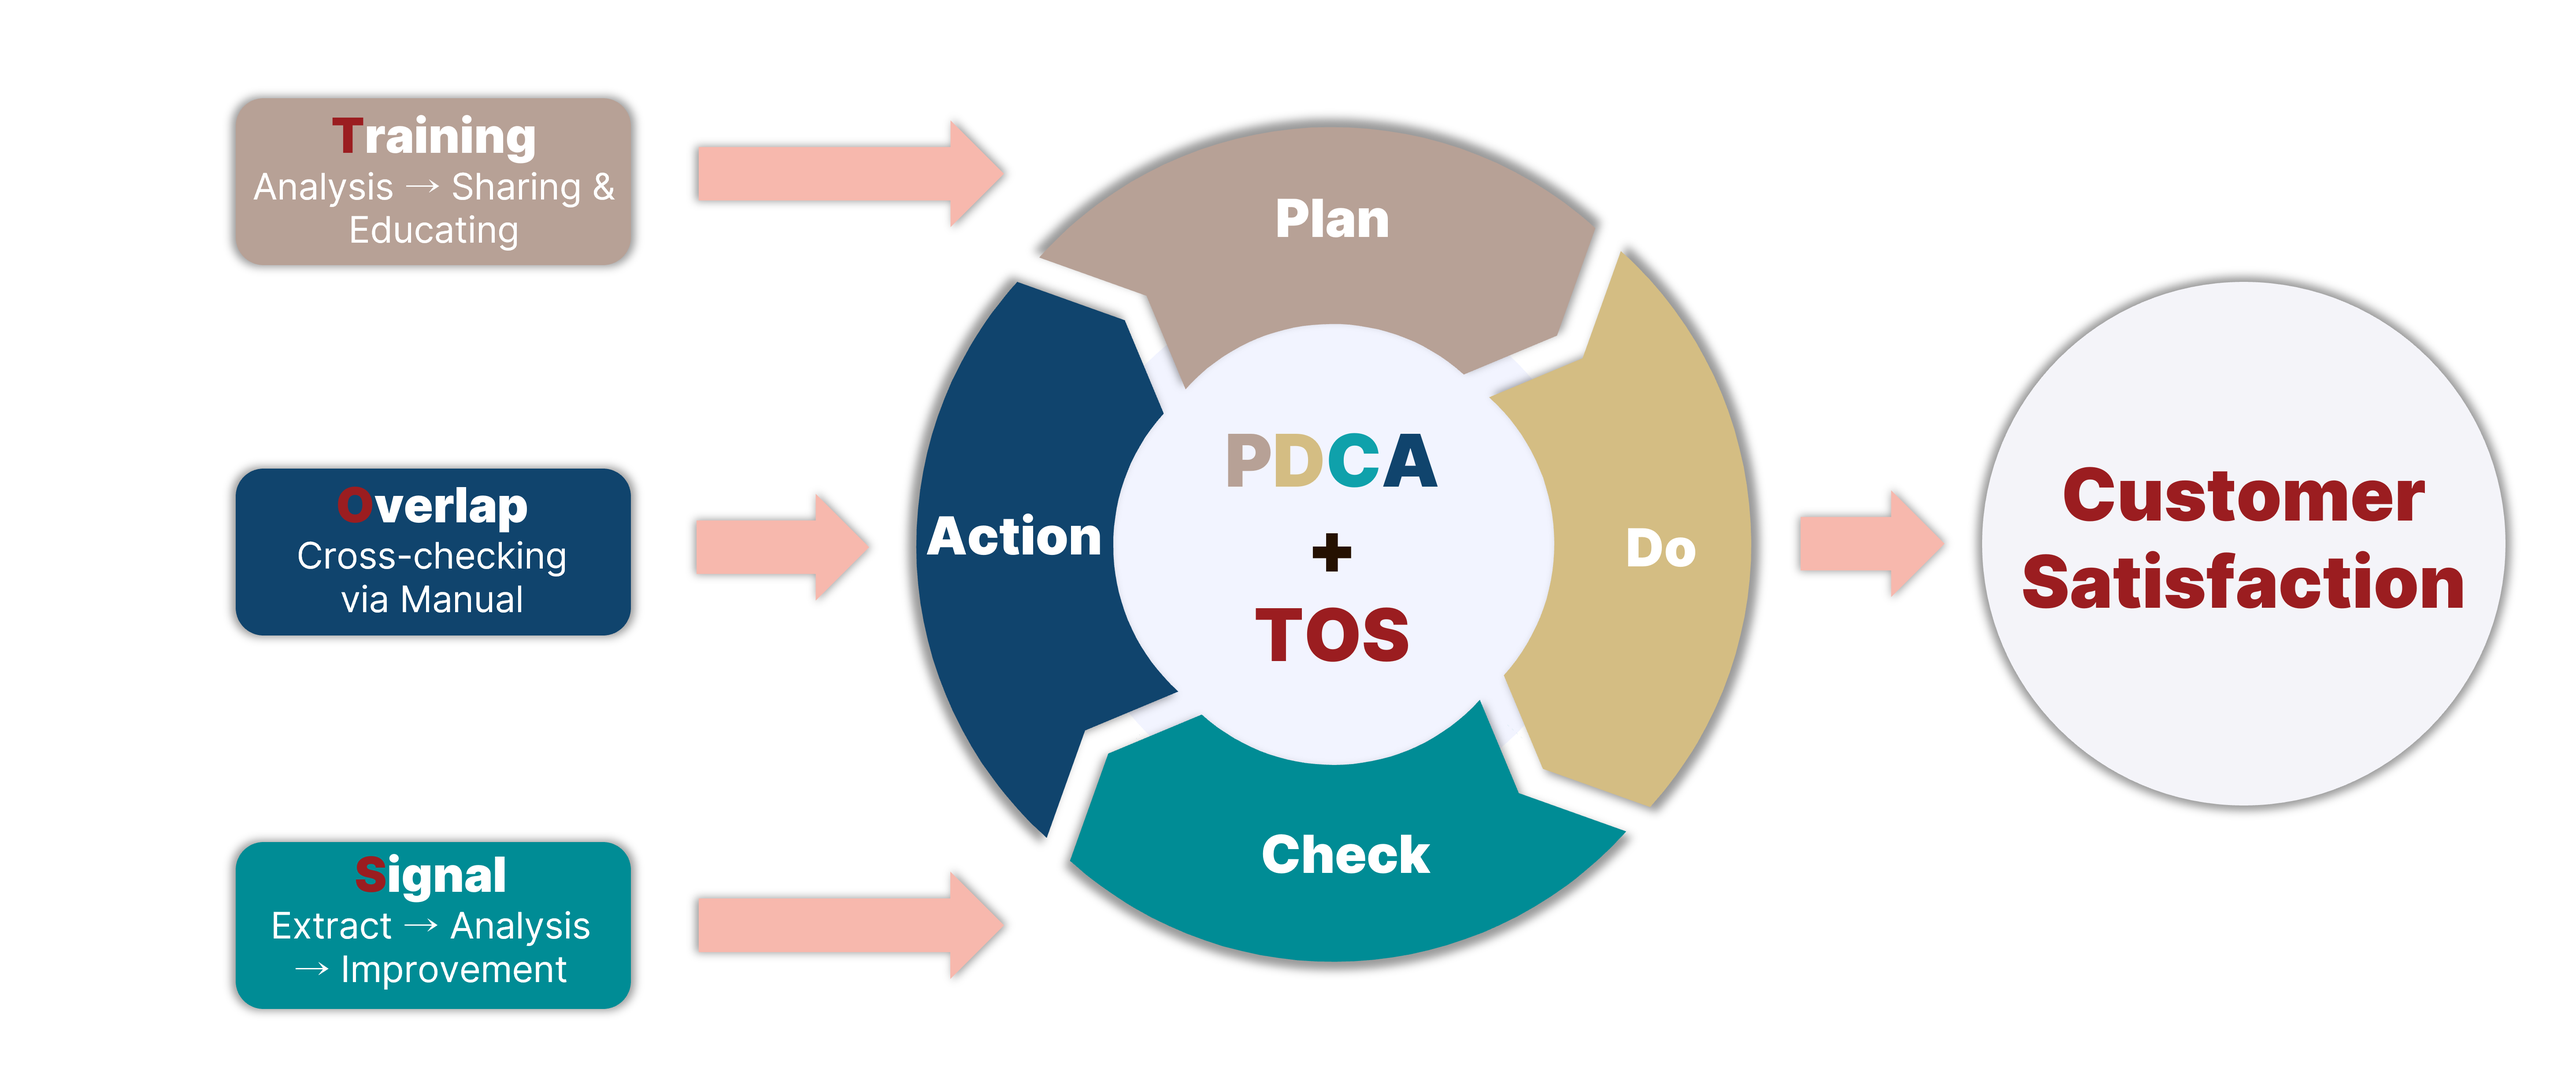
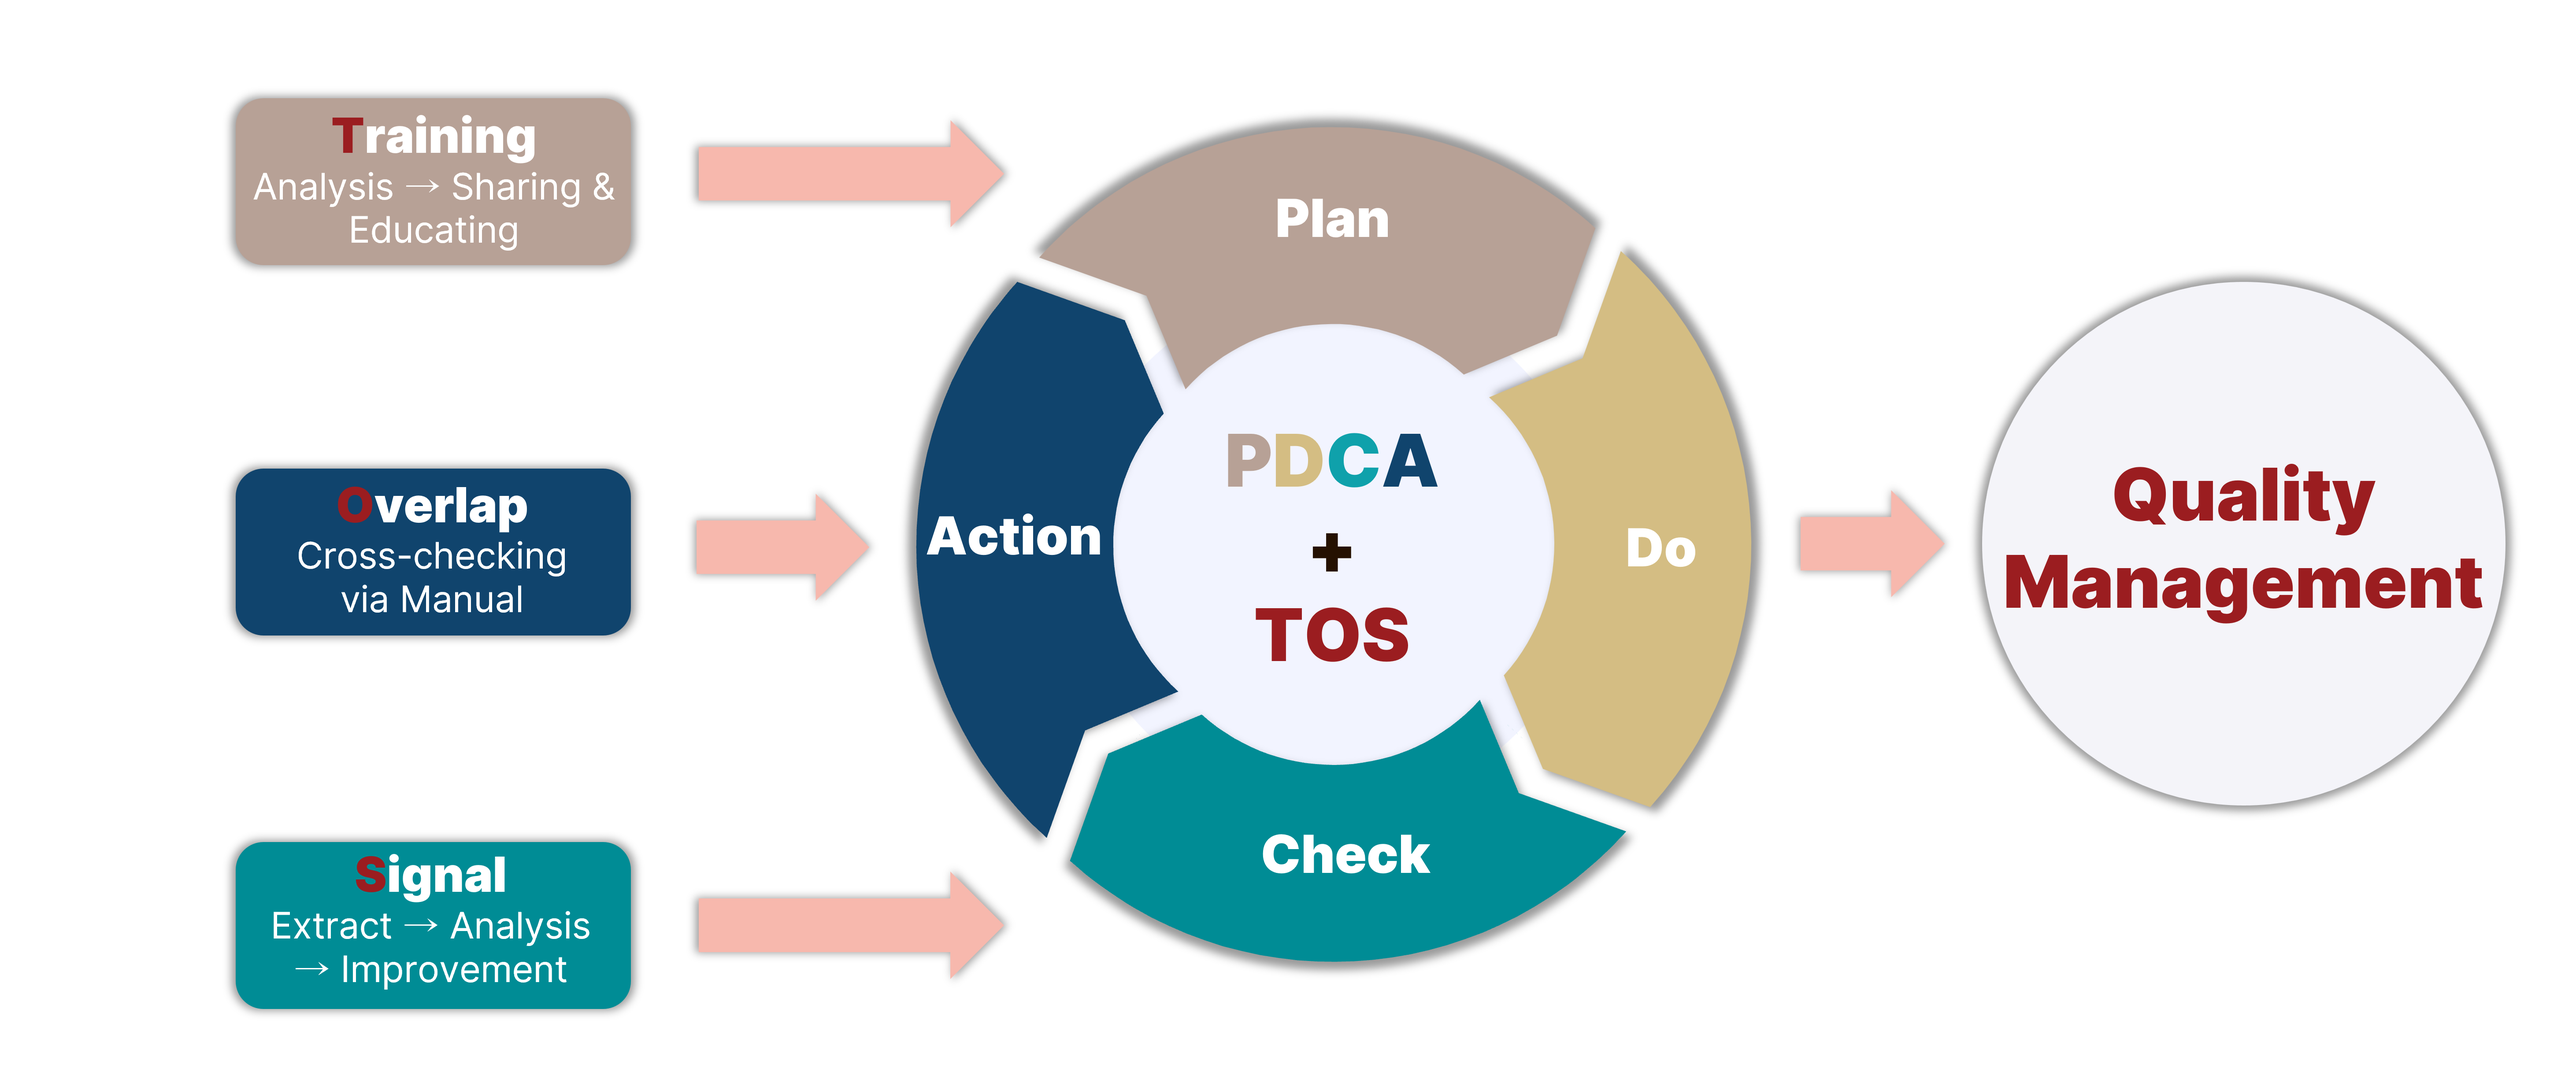
On branch 8/6-수정  Your branch is up to date with 'origin/8/6-수�'.
* portfolio composable에 추가
 * 포트폴리오 데이터 적용
 * 포트폴리오 내용 수정
 * management 삭제
 * pdca 이미지 수정
 * qhse 에 기존 management 에 있던 내용 추가

 Changes to be committed:
	modified:   components/landing/featured.vue
	modified:   composables/nav.ts
	new file:   composables/portfolio.ts
	deleted:    pages/commitments/management.vue
	modified:   pages/commitments/qhse.vue
	modified:   pages/projects/portfolio.vue
	modified:   public/img/pdca.png

Changed region(s): [[0.7782, 0.4044, 0.9649, 0.5911]]

diff --git a/components/landing/featured.vue b/components/landing/featured.vue
@@ -2,80 +2,12 @@
 import { Scrollbar } from "swiper"
 import { useUiStore } from "~/stores/ui"
 
+const projects = useProjects()
+
+
 const store = useUiStore()
 
-const slideList = [
-  // 슬라이드 아이템
-  // { title: 'LG Display - South Korea', src: 'https://placehold.co/1920x1080' },
-  // { title: 'LG Display - Vietnam', src: 'https://placehold.co/1440x900' },
-  // { title: 'LG Innotek - South Korea', src: 'https://placehold.co/1280x1024' },
-  // { title: 'SK Hynix - South Korea', src: 'https://placehold.co/1024x768' },
-  // { title: 'LG Display - South Korea', src: 'https://placehold.co/1920x1080' },
-  // { title: 'LG Display - Vietnam', src: 'https://placehold.co/1440x900' },
-  // { title: 'LG Innotek - South Korea', src: 'https://placehold.co/1280x1024' },
-  // { title: 'SK Hynix - South Korea', src: 'https://placehold.co/1024x768' },
-  // 여기부터 진짜 나와야 하는 Items들. 해외 우선, 이후 최근년도순
-  {
-    title: "LG Display – H1,2 Project",
-    src: "/img/featured_1.jpg",
-    content:
-      "<span>Classification: EPC</span> <span>Location: Haiphong, Vietnam</span>  <span>Construction Period: 2018~2019</span>",
-  },
-  {
-    title: "LG Electronics",
-    src: "/img/featured_4.jpg",
-    content:
-      "<span>Classification: EPC</span> <span>Location: Incheon, South Korea</span> <span>Construction Period: 2017~2023</span>",
-  },
-  {
-    title: "LG Display - P8 & 9 Project",
-    src: "/img/featured_9.jpg",
-    content:
-      "<span>Classification: EPC</span> <span>Location: Paju, South Korea</span> <span>Construction Period: 2016~2022</span>",
-  },
-  {
-    title: "LG Display - P10 Project",
-    src: "/img/featured_10.jpg",
-    content:
-      "<span>Classification: EPC</span> <span>Location: Paju, South Korea</span> <span>Construction Period: 2017~2021</span>",
-  },
-  {
-    title: "LG Household & Health Care",
-    src: "/img/featured_2.png",
-    content:
-      "<span>Classification: EPC</span> <span>Location: Buyeo, South Korea</span> <span>Construction Period: 2018~2020</span>",
-  },
-  {
-    title: "LG Household & Health Care",
-    src: "/img/featured_3.png",
-    content:
-      "<span>Classification: EPC</span> <span>Location: Cheongju, South Korea</span> <span>Construction Period: 2017~2020</span>",
-  },
-  {
-    title: "LG Display - M2 Project",
-    src: "/img/featured_8.jpg",
-    content:
-      "<span>Classification: EPC</span> <span>Location: Paju, South Korea</span> <span>Construction Period: 2013, 2016~2017</span>",
-  },
-  {
-    title: "LG Innotek",
-    src: "/img/featured_5.jpg",
-    content:
-      "<span>Classification: EPC</span> <span>Location: Gumi, South Korea</span> <span>Construction Period: 2012~2014</span>",
-  },
-  {
-    title: "LG Display - CAPA UP Project",
-    src: "/img/featured_7.jpg",
-    content:
-      "<span>Classification: EPC</span> <span>Location: Gumi, South Korea</span> <span>Construction Period: 2012~2013</span>",
-  },
-  {
-    title: "LG Display - M5 Project",
-    src: "/img/featured_6.jpg",
-    content:
-      "<span>Classification: EPC</span> <span>Location: Gumi, South Korea</span> <span>Construction Period: 2011~2012</span>",
-  },
-]
+
 </script>
 
 <template>
@@ -159,7 +91,7 @@ const slideList = [
           el: '.swiper-scrollbar',
         }"
       >
-        <SwiperSlide v-for="slide in slideList" class="h-auto mb-10">
+        <SwiperSlide v-for="slide in projects" class="h-auto mb-10">
           <a
             class="block h-full group transition-all duration-500 ease-in-out"
             href="/projects/portfolio"

diff --git a/composables/portfolio.ts b/composables/portfolio.ts
@@ -1,0 +1,77 @@
+
+const projects = [
+    {
+        title: "LG Display – H1,2 Project",
+        src: "/img/featured_1.jpg",
+        status : 'complete',
+        content:
+            "<span>Classification:</span> <span>Location: Haiphong, Vietnam</span>  <span>Construction Period: 2018~2019</span>",
+    },
+    {
+        title: "LG Electronics",
+        src: "/img/featured_4.jpg",
+        status : 'ongoing',
+        content:
+            "<span>Classification:</span> <span>Location: Incheon, South Korea</span> <span>Construction Period: 2017~2023</span>",
+    },
+    {
+        title: "LG Display - P8 & 9 Project",
+        src: "/img/featured_9.jpg",
+        status : 'complete',
+        content:
+            "<span>Classification:</span> <span>Location: Paju, South Korea</span> <span>Construction Period: 2016~2022</span>",
+    },
+    {
+        title: "LG Display - P10 Project",
+        src: "/img/featured_10.jpg",
+        status : 'ongoing',
+        content:
+            "<span>Classification:</span> <span>Location: Paju, South Korea</span> <span>Construction Period: 2017~2021</span>",
+    },
+    {
+        title: "LG Household & Health Care",
+        src: "/img/featured_2.png",
+        status : 'complete',
+        content:
+            "<span>Classification:</span> <span>Location: Buyeo, South Korea</span> <span>Construction Period: 2018~2020</span>",
+    },
+    {
+        title: "LG Household & Health Care",
+        src: "/img/featured_3.png",
+        status : 'complete',
+        content:
+            "<span>Classification:</span> <span>Location: Cheongju, South Korea</span> <span>Construction Period: 2017~2020</span>",
+    },
+    {
+        title: "LG Display - M2 Project",
+        src: "/img/featured_8.jpg",
+        status : 'complete',
+        content:
+            "<span>Classification:</span> <span>Location: Paju, South Korea</span> <span>Construction Period: 2013, 2016~2017</span>",
+    },
+    {
+        title: "LG Innotek",
+        src: "/img/featured_5.jpg",
+        status : 'complete',
+        content:
+            "<span>Classification:</span> <span>Location: Gumi, South Korea</span> <span>Construction Period: 2012~2014</span>",
+    },
+    {
+        title: "LG Display - CAPA UP Project",
+        src: "/img/featured_7.jpg",
+        status : 'complete',
+        content:
+            "<span>Classification:</span> <span>Location: Gumi, South Korea</span> <span>Construction Period: 2012~2013</span>",
+    },
+    {
+        title: "LG Display - M5 Project",
+        src: "/img/featured_6.jpg",
+        status : 'complete',
+        content:
+            "<span>Classification:</span> <span>Location: Gumi, South Korea</span> <span>Construction Period: 2011~2012</span>",
+    },
+]
+
+export const useProjects = () => {
+    return projects
+}

diff --git a/pages/projects/portfolio.vue b/pages/projects/portfolio.vue
@@ -7,24 +7,25 @@ defineProps({
   },
 })
 
+const projects = useProjects();
+
+const ongoings = computed(() => {
+  return projects.filter((project) => project.status === "ongoing");
+});
+
+const completes = computed(() => {
+  return projects .filter((project) => project.status !== "ongoing");
+});
+
+
 const data = {
   ongoing: {
     title: 'ongoing',
-    datas: [
-      {
-        title: 'ongoing title',
-        imageSrc: '/img/mission.jpg',
-      },
-    ],
+    datas: ongoings,
   },
   complete: {
     title: 'complete',
-    datas: [
-      {
-        title: 'complete title',
-        imageSrc: '/img/mission.jpg',
-      },
-    ],
+    datas: completes
   },
 } as any
 
@@ -34,7 +35,17 @@ const currentTab = ref(data.ongoing) // 선택될 박스
 
 const handleClick = (event: MouseEvent) => {
   const target = event.target as HTMLButtonElement
+  if (target.value === currentTab.value.title) return
+  content.value.style.transition = 'none'
+  content.value.style.opacity = '0'
+  content.value.classList.remove('pages-fade-done')
+  content.value.classList.add('pages-fade-left')
   currentTab.value = data[target.value]
+  setTimeout(() => {
+    content.value.style.opacity = '1'
+    content.value.style.transition = 'all 1s ease-in-out'
+    content.value.classList.remove('pages-fade-left')
+  }, 300)
 }
 </script>
 
@@ -94,7 +105,7 @@ const handleClick = (event: MouseEvent) => {
       "
     >
       <ul
-        class="container my-20 grid xl:grid-cols-4 grid-cols-1 sm:grid-cols-2 lg:grid-cols-3 gap-x-10 gap-y-5"
+        class="container my-20 grid xl:grid-cols-4 grid-cols-1 sm:grid-cols-2 lg:grid-cols-3 gap-x-10 gap-y-52 sm:gap-y-32 "
       >
         <li
           class="items-center group w-full bg-white transition-colors duration-500 ease-in-out"
@@ -104,12 +115,12 @@ const handleClick = (event: MouseEvent) => {
           <div class="absolute top-0 right-0 left-0 w-full h-3/4 overflow-hidden">
             <img
             class="absolute w-full h-full bottom-0 left-0 object-cover group-hover:transform group-hover:scale-110 transition-all duration-500 ease-in-out"
-            :src="item.imageSrc"
+            :src="item.src"
             alt="hyoungwon portfolio"
             />
           </div>
           <div class="text-lg absolute z-2 flex w-full justify-between items-center px-10 bottom-0 left-0 h-1/5 font-semibold">
-            <span class="line-clamp-5 sm:line-clamp-2">
+            <span class="text-2xl pr-4">
               {{ item.title }}
             </span>
             <span class="font-medium text-sm text-yellow-800">

diff --git a/pages/commitments/qhse.vue b/pages/commitments/qhse.vue
@@ -6,10 +6,12 @@ defineProps({
     required: true,
   },
 })
+
+const management = ref()
 const image1 = ref() // 이미지 영역
 const image2 = ref()
 const image3 = ref()
-const infomation = ref() // 소개영역
+
 </script>
 
 <template>
@@ -17,6 +19,37 @@ const infomation = ref() // 소개영역
     <div
       class="flex flex-col container items-center mx-auto py-20 gap-20 justify-center overflow-hidden"
     >
+      
+      <div>
+        <section
+          ref="management"
+          class="pages-fade flex flex-col space-y-20 pb-20 "
+          :class="
+            management?.offsetTop < scrollTrigger
+              ? 'pages-fade-done'
+              : 'pages-fade-left'
+          "
+        >
+          <h3 class="text-6xl font-black text-center">Management</h3>
+          <p class="text-2xl">
+            Hyungwon's management policy is as follows. <br />
+            Based on PDCA, we are committed to increasing customer satisfaction by adding our own system, TOS.
+          </p>
+          <figure class="mt-20">
+            <img src="/img/pdca.png" alt="" />
+          </figure>
+          <p class="text-2xl">
+            A TOS system is a system that adds Training, Overlap, and Signal, which includes more specific and fractionized procedures during the Plan, Action, and Check phases, respectively.
+            <br /> <br />
+            Training allows you to plan while sharing and training case analysis results.
+            <br /> <br />
+            Overlap provides cross-checking based on the manual and specifies the manager of each task so that action can be performed.
+            <br /> <br />
+            Signal extracts, analyzes, and improves repeated faults more than three times to complement the check.
+          </p>
+        </section>
+      </div>
+
       <div class="flex flex-col-reverse md:flex-row gap-x-20 gap-y-10">
         <!-- mobile 일 경우, 이미지가 밑으로. -->
 

diff --git a/composables/nav.ts b/composables/nav.ts
@@ -15,7 +15,6 @@ const nav = {
   ],
   Commitments: [
     { name: "QHSE", path: "qhse" }, 
-    { name: "Management", path: "management" },
   ],
   Media: [{ name: "News", path: "news" }],
   Careers: [
